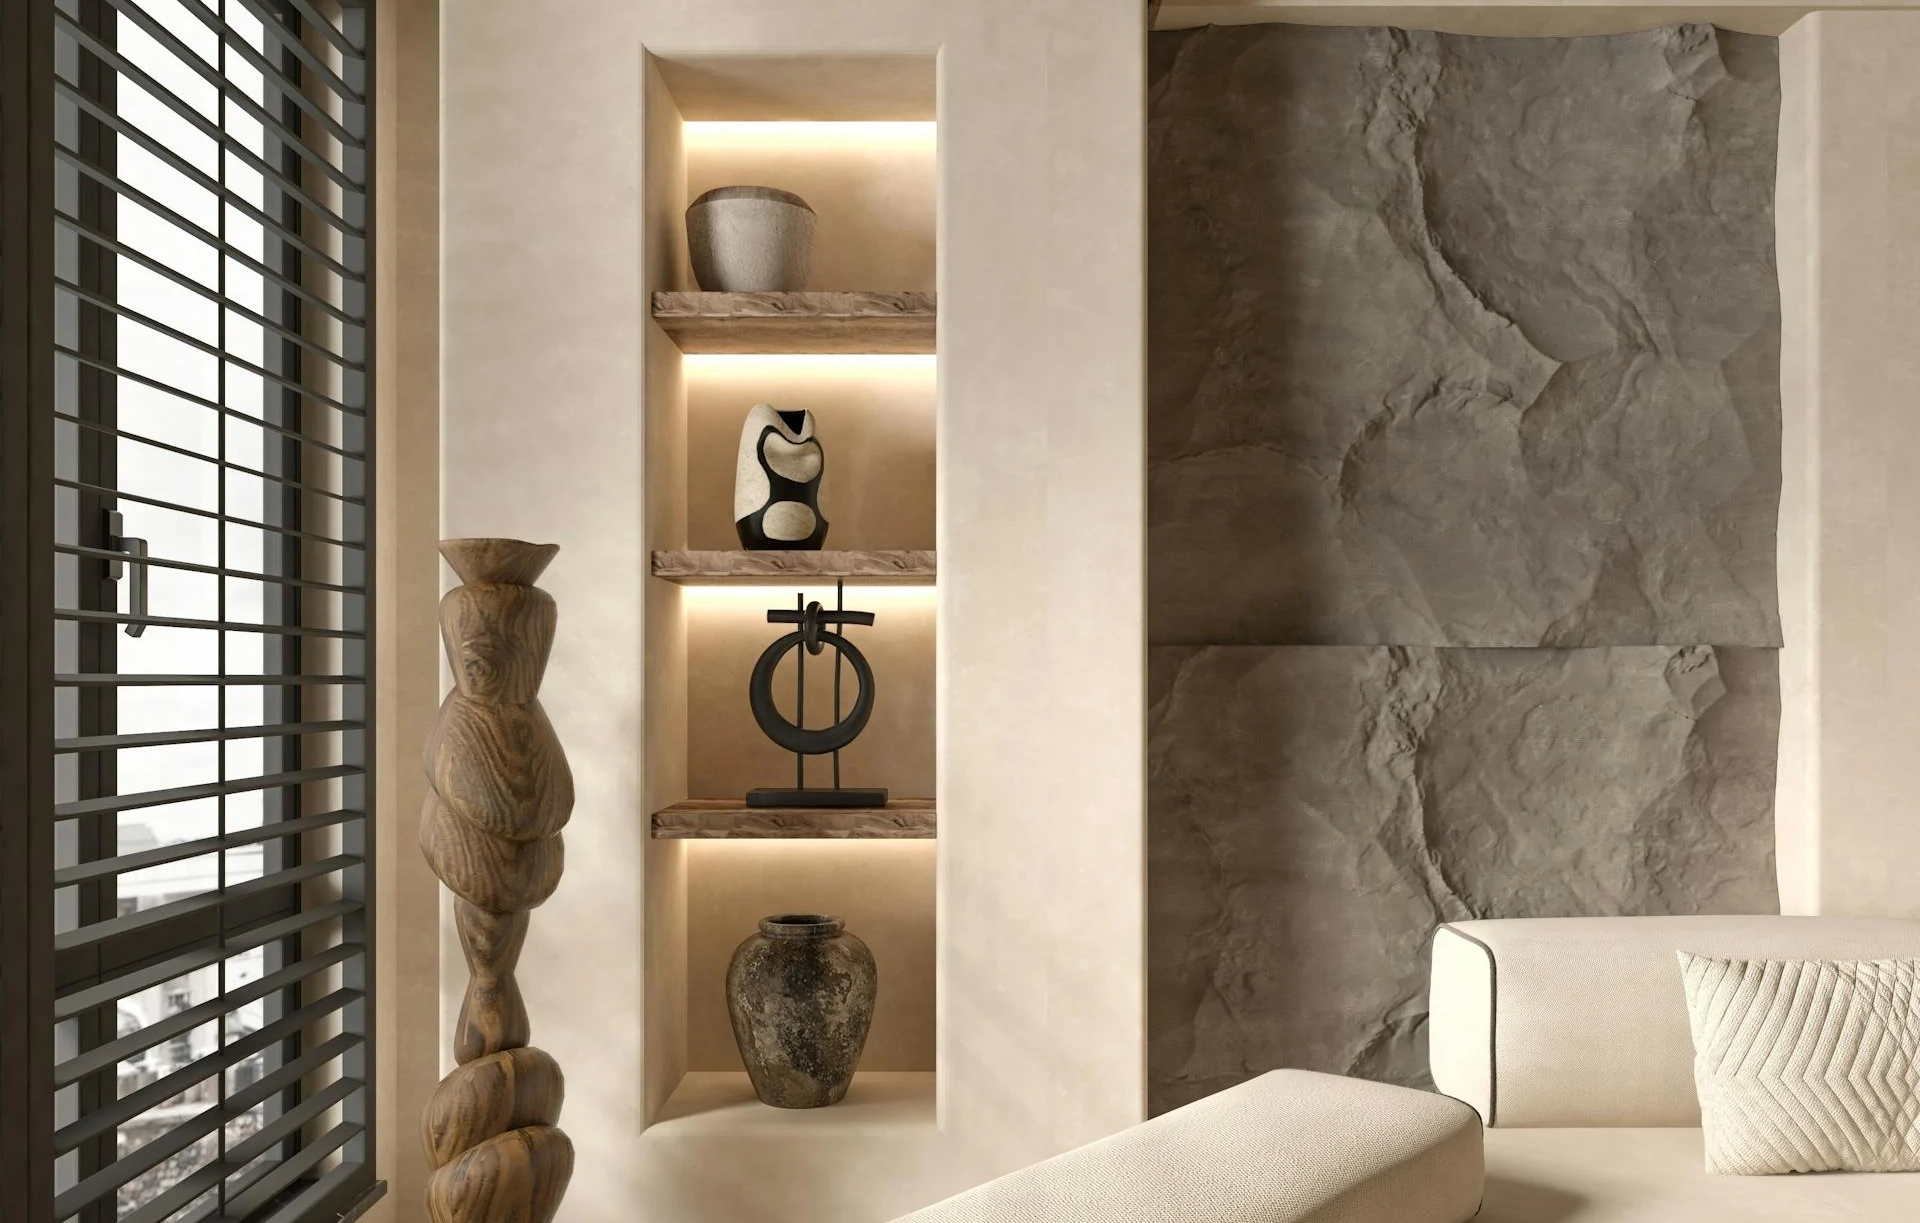
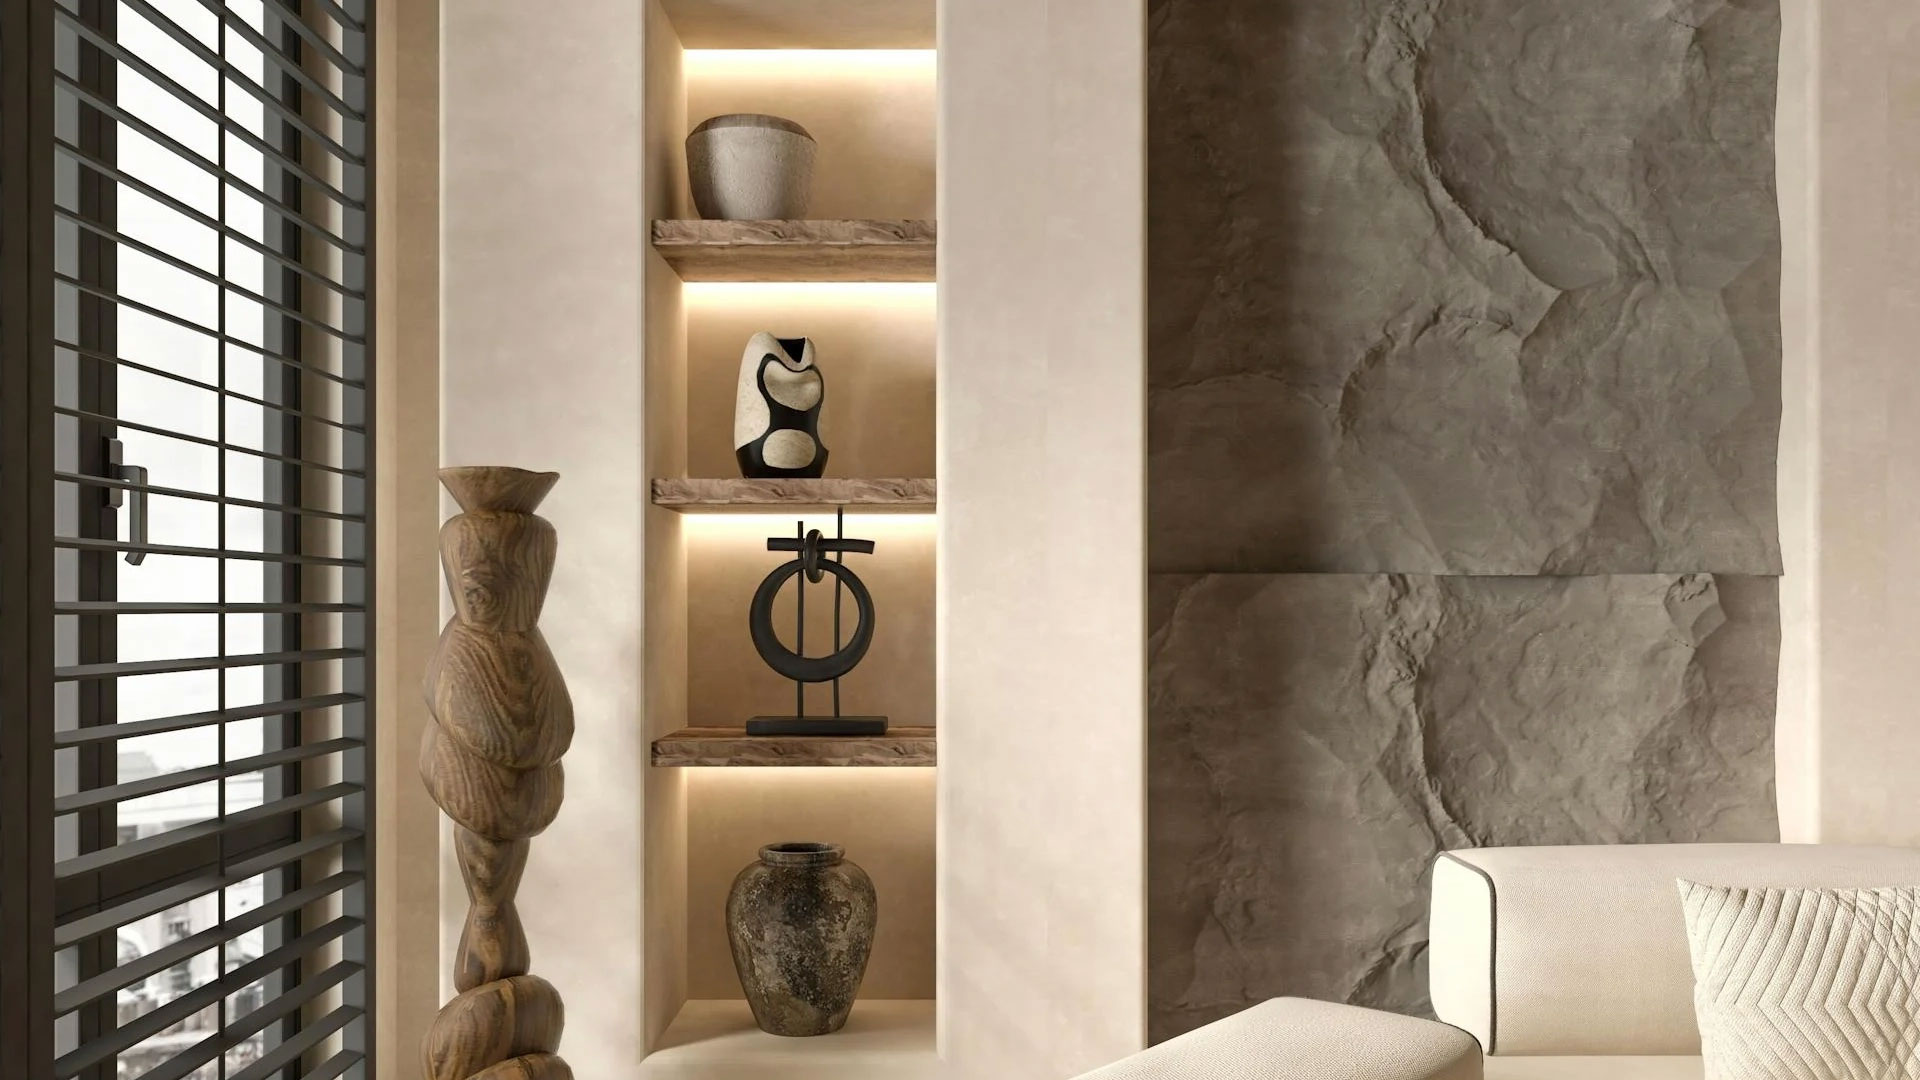
optimizacion de imagenes

diff --git a/js/proyectos.js b/js/proyectos.js
@@ -16,11 +16,11 @@ const proyectos = [
         id: 2,
         nombre: "Juceca",
         categoria: "Diseño editorial",
-        imagen: "imagenes/juceca.png",
+        imagen: "imagenes/juceca.jpg",
         descripcionCorta: `Proyecto basado en la obra de Juceca que desarrolla el concepto “Historias para no creer”, inspirado en el carácter absurdo y humorístico de sus relatos.<br><br>
 
 La propuesta combina ilustraciones vibrantes y composiciones exageradas para reinterpretar su universo desde un lenguaje visual contemporáneo, irónico y dinámico.`,        
-        imagenes: ["imagenes/juceca.png", "imagenes/juceca2.png", "imagenes/marcalibro.png", "imagenes/juceca4.png"],
+        imagenes: ["imagenes/juceca.jpg", "imagenes/juceca2.jpg", "imagenes/marcalibro.jpg", "imagenes/juceca4.jpg"],
     },
 
     {
@@ -29,14 +29,14 @@ La propuesta combina ilustraciones vibrantes y composiciones exageradas para rei
         categoria: "Identidad visual",
         enlaceDemo: "https://landingrubenrada.netlify.app/",
         enlaceBehance: "https://www.behance.net/gallery/249030747/Ruben-Rada-Diseno-de-Vinilo",
-        imagen: "imagenes/rada-remera.png",
+        imagen: "imagenes/rada-remera.jpg",
        descripcionCorta: `Proyecto desarrollado junto a Matilde Braga.<br><br>
 
 Diseño de tapa y contratapa de vinilo para Rubén Rada, acompañado por piezas promocionales y un sitio web que amplía la propuesta visual y sonora.<br><br>
 
 El concepto “Origen” se construye a partir de su universo musical, tomando el candombe como raíz rítmica y la identidad como su expresión, tanto individual como colectiva.<br><br>`
 ,
-        imagenes: ["imagenes/rada1.png", "imagenes/rada2.png"],
+        imagenes: ["imagenes/rada1.jpg", "imagenes/rada2.jpg"],
     },
 
     
@@ -45,26 +45,26 @@ El concepto “Origen” se construye a partir de su universo musical, tomando e
         nombre: "Wasabi",
         categoria: "Identidad visual",
         enlaceBehance:"https://www.behance.net/gallery/248902027/Wasabi-Apertura-de-sistema",
-        imagen: "imagenes/wasabi-hero.png",
+        imagen: "imagenes/wasabi-hero.jpg",
         descripcionCorta: `Proyecto de desarrollo y ampliación del sistema identitario de Wasabi.<br><br>
 
 A partir del análisis de su identidad, historia y públicos, se definieron nuevos lineamientos comunicacionales para actualizar el sistema de marca.
 
 Se desarrolló una identidad con aplicaciones clave que incluyen un mural institucional como pieza central dentro del espacio.`,
-        imagenes: ["imagenes/wasabi-canguro.png", "imagenes/wasabi-stickers.png", "imagenes/wasabi-vaso.png",  "imagenes/wasabi-gorro.png"],
+        imagenes: ["imagenes/wasabi-canguro.jpg", "imagenes/wasabi-stickers.jpg", "imagenes/wasabi-vaso.png",  "imagenes/wasabi-gorro.jpg"],
 },
 
 {
     id: 5,
     nombre: "Milton Glaser",
     categoria: "Diseño Editorial",
-    imagen: "imagenes/glaser-mockup.png",
+    imagen: "imagenes/glaser-mockup.jpg",
     descripcionCorta: `Diseño editorial del artículo “10 cosas que aprendí” de Milton Glaser.<br><br>
 
 Se desarrolló un folleto que integra una síntesis conceptual de su pensamiento junto a imágenes representativas de su obra. La propuesta trabaja la composición tipográfica, la jerarquía visual y la relación entre texto e imagen, retomando su estética vibrante y su uso característico del color.
 
 El resultado es una pieza clara y dinámica, pensada para una lectura ágil y una experiencia visual coherente con su universo como diseñador.`,
-    imagenes: ["imagenes/glaser-1.png", "imagenes/glaser-2.png"],
+    imagenes: ["imagenes/glaser-1.jpg", "imagenes/glaser-2.jpg"],
 
 },
 {
@@ -78,12 +78,11 @@ El resultado es una pieza clara y dinámica, pensada para una lectura ágil y un
 A partir de un layout base, se desarrolló una propuesta responsiva centrada en la experiencia de usuario y la coherencia visual, buscando reflejar la calidez y sofisticación de la marca.
 
 Se priorizó una interfaz limpia y elegante, con una paleta cromática cálida y una tipografía clara, construyendo una navegación simple y una experiencia visual equilibrada.`,
-    imagenes: ["imagenes/ambar-pc.png", "imagenes/ambar-cel.png"],
+    imagenes: ["imagenes/ambar-pc.jpg", "imagenes/ambar-cel.jpg"],
 }
 ];
 
 
-// FUNCIÓN PRINCIPAL: GENERAR PROYECTOS EN LA GRID
 function generarProyectos() {
     const grid = document.getElementById('proyectos-grid');
     if (!grid) return;

diff --git a/index.html b/index.html
@@ -9,8 +9,8 @@
   <meta name="copyright" content="Serrana Besio">
   <link rel="canonical" href="https://serranabesio.netlify.app/">
   <title>Serrana Besio — Diseñadora Digital</title>
-    <link rel="icon" type="image/png" href="/imagenes/logo1.png">
-  <link rel="stylesheet" href="css/estilos.css" />
+  <link rel="icon" type="image/png" href="imagenes/logo1.png">
+    <link rel="stylesheet" href="css/estilos.css" />
   <link rel="stylesheet" href="https://cdnjs.cloudflare.com/ajax/libs/font-awesome/6.4.0/css/all.min.css" />
 </head>
 
@@ -43,6 +43,8 @@
 
   <!-- HERO -->
   <section class="hero">
+    <img src="imagenes/fondo-hero.png" class="hero-bg-imagen" alt="Ilustración de líneas orgánicas simulando un coral">
+
     <div class="hero-content">
       <p class="hero-eyebrow">Diseño · Identidad · Editorial</p>
       <h1 class="hero-frase">Intervenir lo justo.<br>Lo <em>simple</em> se vuelve único.</h1>
@@ -77,7 +79,7 @@
         </div>
         <div class="sobre-mi-derecha">
           <div class="sobre-foto-wrap">
-            <img src="imagenes/foto-perfil.png" alt="Serrana Besio — diseñadora digital">
+            <img src="imagenes/foto-perfil.jpg" alt="Serrana Besio — diseñadora digital">
           </div>
         </div>
       </div>
@@ -86,6 +88,7 @@
 
   <!-- CONTACTO -->
   <section id="contacto">
+    <img src="imagenes/fondo-contacto.png" class="contacto-bg-imagen" alt="Ilustración de líneas orgánicas simulando un coral">
     <div class="container">
       <div class="contact-header">
         <h2 class="contact-title">Hablemos.</h2>
@@ -147,7 +150,7 @@
       <span class="pulso"></span>
     </label>
     <div class="opciones-contacto">
-      <a href="https://wa.me/59898307535?text=Hola%20Serrana%2C%20me%20gustar%C3%ADa%20obtener%20m%C3%A1s%20informaci%C3%B3n%20sobre%20tus%20servicios."
+      <a href="https://wa.me/59898307535?text=Hola%20Serrana%2C%20me%20gustar%C3%ADa%20obtener%20m%C3%A1s%20informaci%C3%B3n."
          target="_blank" class="opcion-contacto whatsapp" title="Contactar por WhatsApp">
         <i class="fab fa-whatsapp"></i>
       </a>

diff --git a/css/estilos.css b/css/estilos.css
@@ -336,13 +336,41 @@ nav::after {
     display: flex;
     align-items: center;
     overflow: hidden;
-    background-image: url(../imagenes/fondo-hero.png);
-    background-size: cover;
-    background-position: center top;
-    background-repeat: no-repeat;
-    background-attachment: scroll; 
 }
 
+.hero-bg-imagen {
+    position: absolute;
+    top: -50px;
+    right: 0;
+    height: 110%;
+    width: auto;
+    pointer-events: none;
+    z-index: 0;
+    animation: ondaAgua 16s ease-in-out infinite;
+}
+
+@keyframes ondaAgua {
+    0%   { 
+        transform: translateY(0px) scaleX(1) scaleY(1);
+        filter: blur(0px);
+    }
+    25%  { 
+        transform: translateY(-8px) scaleX(1.015) scaleY(0.98);
+        filter: blur(0.3px);
+    }
+    50%  { 
+        transform: translateY(-4px) scaleX(0.985) scaleY(1.02);
+        filter: blur(0px);
+    }
+    75%  { 
+        transform: translateY(-10px) scaleX(1.01) scaleY(0.99);
+        filter: blur(0.2px);
+    }
+    100% { 
+        transform: translateY(0px) scaleX(1) scaleY(1);
+        filter: blur(0px);
+    }
+}
 .hero-content {
     width: 100%;
     max-width: var(--max-w);
@@ -758,11 +786,23 @@ nav::after {
 ========================================================= */
 #contacto {
     padding: var(--sp-96) 0;
-    background-image: url(../imagenes/fondo-contacto.png);
-    background-size: cover;
-    background-position: center;
-    background-repeat: no-repeat;
     background-color: var(--coral);
+    position: relative;
+    overflow: hidden;
+}
+
+
+.contacto-bg-imagen {
+    position: absolute;
+    top: -50px;
+    left: 0;
+    width: 100%;
+    height: 110%;
+    object-fit: cover;
+    pointer-events: none;
+    z-index: 0;
+    opacity: 0.3;
+    animation: ondaAgua 20s ease-in-out infinite;
 }
 
 .contact-header {
